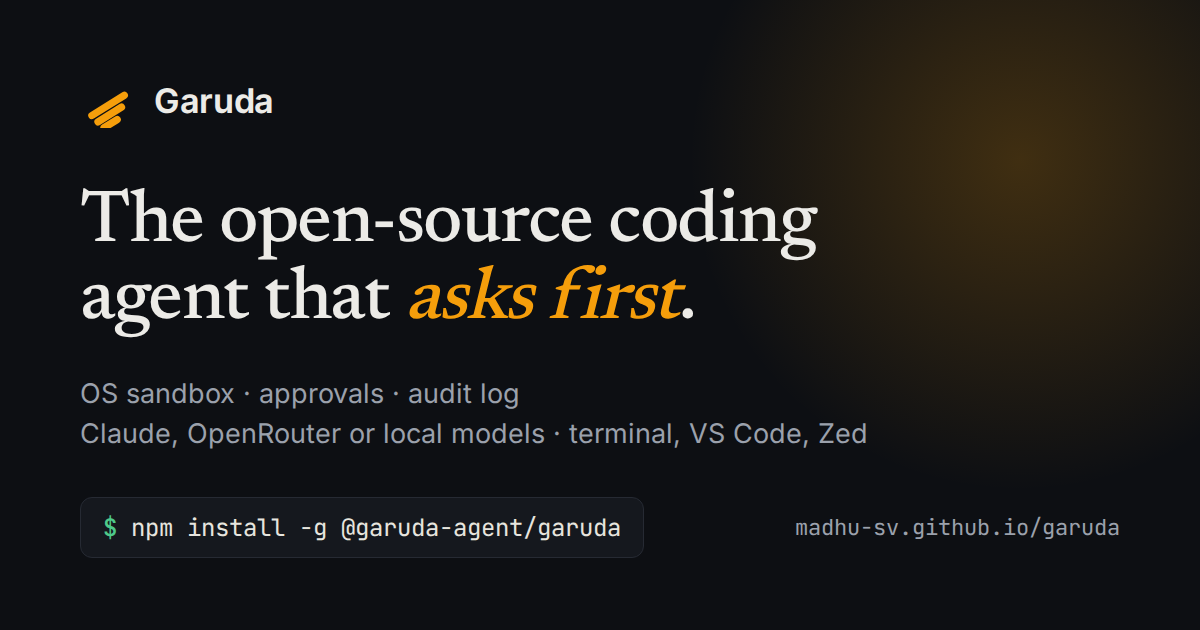
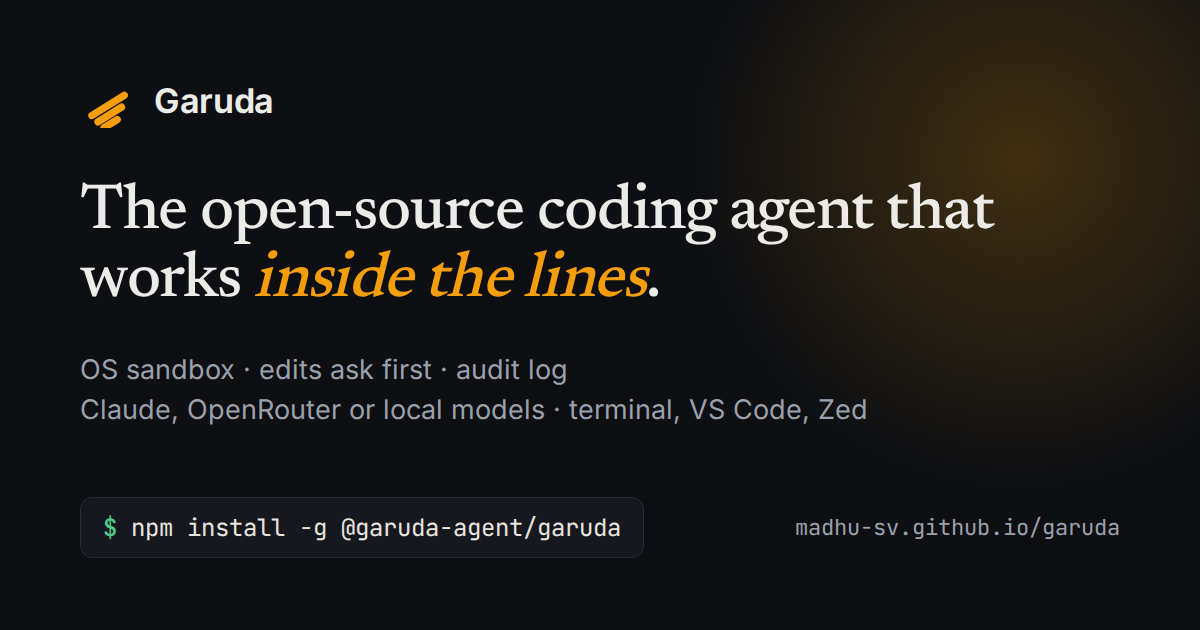
Site: comments under blog posts and a contact page (#9)
* Site: comments under blog posts and a contact page

- Comments: giscus. One thread per post, stored as a GitHub Discussion
  in the repo, with replies and reactions; readers sign in with GitHub.
  It loads lazily, only on blog posts, and its theme follows the site's.
  Without the giscus IDs, a post shows a link to GitHub issues instead.
- Contact page (/contact/, linked in the footer): GitHub issues and
  SECURITY.md always; LinkedIn and email when set. The email address is
  joined in the browser, so simple harvesters miss it.
- site/src/community.ts holds the settings; empty values hide a part.
  Checked with sample values and with empty ones.
- docs/release.md: how to turn on Discussions, install giscus and get
  the IDs. CHANGELOG (0.16.2).

* Docs and site: exact safety claims (review T1)

An external review of 0.16.1 found an overclaim: the permission engine
allows commands in the OS sandbox with no question, and the sandbox may
write the project, so a command can change source files without the
edit approval. The public texts said that every change asks first.

- Landing page (title, description, structured data, intro, two cards),
  docs home, both blog posts, README, share image and its alt text, and
  the ACP build mode text now say: edits ask first; commands in the
  sandbox run with no question, inside its limits; a command outside
  the sandbox always asks; without a sandbox each command asks; /undo
  restores what a turn changed.
[…]

Changed region(s): [[0.0617, 0.2714, 0.8325, 0.5429], [0.0617, 0.573, 0.74, 0.7238]]

diff --git a/test/claims.test.ts b/test/claims.test.ts
@@ -1,0 +1,60 @@
+import { readdirSync, readFileSync, statSync } from "node:fs";
+import { join, relative } from "node:path";
+import { describe, expect, it } from "vitest";
+
+/**
+ * Public safety claims must match what Garuda does (review of 0.16.1). Edits ask first; commands
+ * in the OS sandbox run with no question, inside its limits. These phrases claimed more.
+ */
+const OVERCLAIMS: readonly RegExp[] = [
+  /every change asks/i,
+  /changes ask first/i,
+  /asks before it changes/i,
+  /each one asks first/i,
+  /a command shows its text/i,
+  /coding agent that asks first/i,
+  /every command runs in an OS sandbox/i,
+  /an OS sandbox for every command/i,
+];
+
+const repo = join(import.meta.dirname, "..");
+
+/** The texts that users read: README, design docs, website pages and posts, ACP mode text. */
+const PUBLIC = [
+  "README.md",
+  "docs",
+  "site/src/pages",
+  "site/src/content/blog",
+  "site/src/content/docs/docs/index.md",
+  "site/src/content/docs/docs/install.md",
+  "site/src/content/docs/docs/quick-start.md",
+  "site/src/content/docs/docs/security.md",
+  "site/src/content/docs/docs/editors.md",
+  "site/src/seo.ts",
+  "src/acp/server.ts",
+];
+
+function files(path: string): string[] {
+  const full = join(repo, path);
+  if (statSync(full).isFile()) return [full];
+  return readdirSync(full).flatMap((name) => files(join(path, name)));
+}
+
+describe("public safety claims", () => {
+  it("no text claims that every change or command asks first", () => {
+    const found: string[] = [];
+    for (const file of PUBLIC.flatMap(files)) {
+      if (!/\.(md|astro|ts)$/.test(file)) continue;
+      readFileSync(file, "utf8")
+        .split("\n")
+        .forEach((line, i) => {
+          // A correction note quotes the old claim on purpose.
+          if (line.startsWith("*Corrected on")) return;
+          for (const claim of OVERCLAIMS) {
+            if (claim.test(line)) found.push(`${relative(repo, file)}:${i + 1}: ${line.trim()}`);
+          }
+        });
+    }
+    expect(found).toEqual([]);
+  });
+});

diff --git a/site/src/community.ts b/site/src/community.ts
@@ -1,0 +1,26 @@
+// Comments under blog posts (giscus) and the contact page. While a value is empty, that part of the
+// site stays hidden.
+
+/**
+ * giscus (https://giscus.app): one thread per blog post, stored as a GitHub Discussion in the repo,
+ * with replies and reactions. Readers sign in with GitHub. The IDs come from the giscus.app page
+ * after Discussions is on and the giscus app is installed on the repo (see docs/release.md).
+ */
+export const GISCUS = {
+  repo: "madhu-sv/garuda",
+  repoId: "",
+  category: "Blog comments",
+  categoryId: "",
+};
+
+export function giscusReady(): boolean {
+  return GISCUS.repoId !== "" && GISCUS.categoryId !== "";
+}
+
+/** The contact page. Empty: not shown. */
+export const CONTACT = {
+  linkedin: "",
+  /** Shown as user [at] domain and joined in the browser, so simple address harvesters miss it. */
+  email: "",
+  issues: "https://github.com/madhu-sv/garuda/issues",
+};

diff --git a/site/src/styles/site.css b/site/src/styles/site.css
@@ -650,3 +650,28 @@ h2.title {
 .term {
   border: 1px solid color-mix(in srgb, var(--line) 60%, transparent);
 }
+
+/* Blog comments (giscus) and the contact page */
+.comments {
+  margin-top: 64px;
+  padding-top: 32px;
+  border-top: 1px solid var(--line);
+}
+.comments-title {
+  font-family: var(--serif);
+  font-weight: 560;
+  font-size: 26px;
+  margin: 0 0 8px;
+}
+.comments .meta a {
+  color: var(--accent);
+}
+.comments .giscus {
+  margin-top: 20px;
+}
+.contact-list {
+  padding-left: 20px;
+}
+.contact-list li {
+  margin: 10px 0;
+}

diff --git a/src/acp/server.ts b/src/acp/server.ts
@@ -78,7 +78,7 @@ export function setupNeeded(message: string): Error {
 }
 
 const MODES: Readonly<Record<AgentMode, { name: string; description: string }>> = {
-  build: { name: "Build", description: "Edits and commands, each one asks first." },
+  build: { name: "Build", description: "Edits ask first; commands run in the sandbox." },
   plan: {
     name: "Plan",
     description: "Reads and plans. No edits; commands cannot write the project.",

diff --git a/site/src/seo.ts b/site/src/seo.ts
@@ -12,7 +12,7 @@ export const SHARE_IMAGE = {
   path: "og.png",
   width: 1200,
   height: 630,
-  alt: "Garuda: the open-source coding agent that asks first. OS sandbox, approvals, audit log.",
+  alt: "Garuda: the open-source coding agent that works inside the lines. OS sandbox, edits ask first, audit log.",
 };
 
 /** Absolute URL of the share image. `site` is "https://madhu-sv.github.io", `base` "/garuda". */

diff --git a/site/src/content/blog/introducing-garuda.md b/site/src/content/blog/introducing-garuda.md
@@ -1,9 +1,14 @@
 ---
-title: "Introducing Garuda: an open-source coding agent that asks first"
-description: "Garuda is an open-source coding agent for the terminal and for editors. Commands run in an OS sandbox, changes ask first, and every decision goes to an audit log. It works with Claude, OpenRouter or local models."
+title: "Introducing Garuda: an open-source coding agent with an OS sandbox"
+description: "Garuda is an open-source coding agent for the terminal and for editors. Commands run in an OS sandbox that writes only in your project, edits ask first, and every decision goes to an audit log. It works with Claude, OpenRouter or local models."
 date: 2026-10-08
 author: Madhusudhan Vasanth Kumar
 ---
+
+*Corrected on 10 October 2026: an earlier version said that every change asks first. Edits do, but
+commands in the sandbox run with no question: they can change project files, within the sandbox's
+limits. The list below now says exactly what each limit does. Thanks to a reviewer who pointed it
+out.*
 
 A coding agent reads your code, edits files and runs commands on your machine. That is what makes it
 useful. It is also what makes it risky: one wrong command, or one instruction hidden in a file that
@@ -23,13 +28,16 @@ Garuda is my answer to that: an open-source coding agent where the limits come f
 system, not from the model's good behaviour. It is free, Apache-2.0, and it runs in your terminal,
 in VS Code and in Zed.
 
-## What "asks first" means
+## The limits, exactly
 
-- **Every command runs in an OS sandbox.** Seatbelt on macOS, bubblewrap on Linux. A command can
-  write only in the project, temp folders and package caches. Your SSH keys, cloud credentials and
-  other home secrets stay unreadable, and there is no network unless you open it.
-- **Every change asks first.** An edit shows its diff, and you allow it once, for the session, or not
-  at all. You can also accept single hunks. Plan mode only reads.
+- **Commands run in an OS sandbox.** Seatbelt on macOS, bubblewrap on Linux. A command can write
+  only in the project, temp folders and package caches. Your SSH keys, cloud credentials and other
+  home secrets stay unreadable, and there is no network unless you open it. Inside the sandbox, a
+  command runs with no question, so it can change project files; `/undo` restores what a turn
+  changed, commands included. A command outside the sandbox always asks. Without a sandbox, each
+  command asks.
+- **Edits ask first.** An edit shows its diff, and you allow it once, for the session, or not at all.
+  You can also accept single hunks. Plan mode only reads.
 - **The network is closed by default.** When you open it, commands reach only the hosts that you
   list, through Garuda's own proxy.
 - **A team policy that a project cannot loosen.** A managed file sets denied commands and paths, a

diff --git a/docs/release.md b/docs/release.md
@@ -115,3 +115,23 @@ Google Search Console, once:
 
 A new share image: replace `site/public/og.png` (1200×630). LinkedIn keeps a preview for a while; its
 Post Inspector (linkedin.com/post-inspector) loads the new one.
+
+## Blog comments and the contact page
+
+The settings are in `site/src/community.ts`. While a value is empty, that part stays hidden: a blog
+post then shows a link to GitHub issues instead of comments.
+
+Comments use giscus: one thread per post, stored as a GitHub Discussion, with replies and reactions.
+Readers sign in with GitHub. To turn them on, once:
+
+1. On GitHub, **Settings → General → Features**: turn on **Discussions**.
+2. In **Discussions**, create a category named `Blog comments` of the type **Announcement** (only
+   maintainers and giscus can start threads there; everyone can reply).
+3. Install the giscus app on the repo: github.com/apps/giscus → **Install** → only `madhu-sv/garuda`.
+4. On giscus.app, enter `madhu-sv/garuda`, choose the category `Blog comments` and the mapping
+   "pathname". Copy `data-repo-id` and `data-category-id` into `repoId` and `categoryId`.
+5. Merge, wait for the Pages workflow, and open a blog post.
+
+The contact page (`/contact/`) shows GitHub issues and SECURITY.md always, and LinkedIn and the email
+address when `linkedin` and `email` are set. The email address is joined in the browser, so simple
+harvesters that read the HTML miss it; use an address that can take some spam.

diff --git a/README.md b/README.md
@@ -119,9 +119,12 @@ cannot read it). `garuda setup --show` shows the model and where each key comes 
 `ANTHROPIC_API_KEY`, `GARUDA_MODEL`. Do not sync or back up `~/.garuda/credentials` to other places.
 
 Tools: read_file, glob and grep run with no question.
-write_file, edit_file and bash show a diff or the command first. You pick: allow once, allow for this session, or deny.
-Commands run in an OS sandbox when your machine has one (see Sandbox below). Without a sandbox,
-each command asks first, so read each one before you allow it.
+write_file and edit_file show a diff first. You pick: allow once, allow for this session, or deny.
+Commands (bash) run in an OS sandbox when your machine has one (see Sandbox below). There they run
+with no question: the sandbox lets them write only in the project, temp folders and package caches,
+with no network. So a command can change project files without a question; `/undo` restores what a
+turn changed, commands included. A command outside the sandbox always asks. Without a sandbox, each
+command asks first, so read each one before you allow it.
 Garuda removes a leading `cd <working root> &&` from a command, because each command already starts there.
 When the model reads files with bash, or pipes into head or tail, the result adds a short `[Garuda: …]` note that tells it to use the file tools.
 

diff --git a/CHANGELOG.md b/CHANGELOG.md
@@ -2,12 +2,19 @@
 
 ## 0.16.2 (unreleased)
 
+- Exact safety claims (an external review found an overclaim): edits ask first, but commands in the
+  OS sandbox run with no question, inside its limits, so they can change project files (`/undo`
+  restores them). The website, the blog posts, the share image, the README and the editor's mode
+  text said that every change asks first; they now say what each limit does. A test keeps the old
+  phrases out.
 - The system prompt names Garuda's version and the model, so "which model are you?" gets a true
   answer. After `/models`, the next message tells the model about the switch; the system prompt
   stays the same bytes, so the prompt cache stays valid.
 - Website: a share image and share tags (LinkedIn, X and chat previews) on every page, structured
   data on the landing page, and a place for the Google Search Console tag (`site/src/seo.ts`; see
   docs/release.md). More npm keywords.
+- Website: comments under blog posts (giscus: threads with replies, stored as GitHub Discussions,
+  sign-in with GitHub) and a contact page. Both use `site/src/community.ts`; empty values hide them.
 
 ## 0.16.1 (2026-10-06)
 

diff --git a/site/src/content/docs/docs/index.md b/site/src/content/docs/docs/index.md
@@ -11,8 +11,9 @@ Garuda is built safety first:
 
 - **Commands run in an OS sandbox.** Seatbelt on macOS, bubblewrap on Linux. They write only in the
   project, the temp folders and the package caches, and they have no network unless you open it.
-- **Changes ask first.** An edit shows its diff and a command shows its text. You allow it once, for
-  the session, or not at all.
+- **Edits ask first.** An edit shows its diff. You allow it once, for the session, or not at all.
+  Commands in the sandbox run with no question, inside its limits; a command outside the sandbox
+  always asks. `/undo` restores what a turn changed, commands included.
 - **Your rules decide.** Deny rules always win. A team policy sets limits that a project cannot
   loosen, and an audit log records every decision.
 

diff --git a/site/src/content/blog/garuda-reviews-garuda.md b/site/src/content/blog/garuda-reviews-garuda.md
@@ -6,7 +6,7 @@ author: Madhusudhan Vasanth Kumar
 ---
 
 Garuda is a terminal coding agent. Its main promise is safety: commands run in an OS sandbox,
-changes ask first, a team policy sets limits that a project cannot loosen, and an audit log records
+edits ask first, a team policy sets limits that a project cannot loosen, and an audit log records
 every decision. Before I released 0.14.0, I wanted to test that promise on the code that makes it.
 So I asked Garuda to review its own code.
 

diff --git a/docs/lld/acp.md b/docs/lld/acp.md
@@ -238,7 +238,7 @@ Garuda's agent modes become ACP session modes:
 "modes": {
   "currentModeId": "build",
   "availableModes": [
-    { "id": "build", "name": "Build", "description": "Edits and commands, each one asks first." },
+    { "id": "build", "name": "Build", "description": "Edits ask first; commands run in the sandbox." },
     { "id": "plan", "name": "Plan", "description": "Reads and plans. No edits; commands cannot write the project." }
   ]
 }
